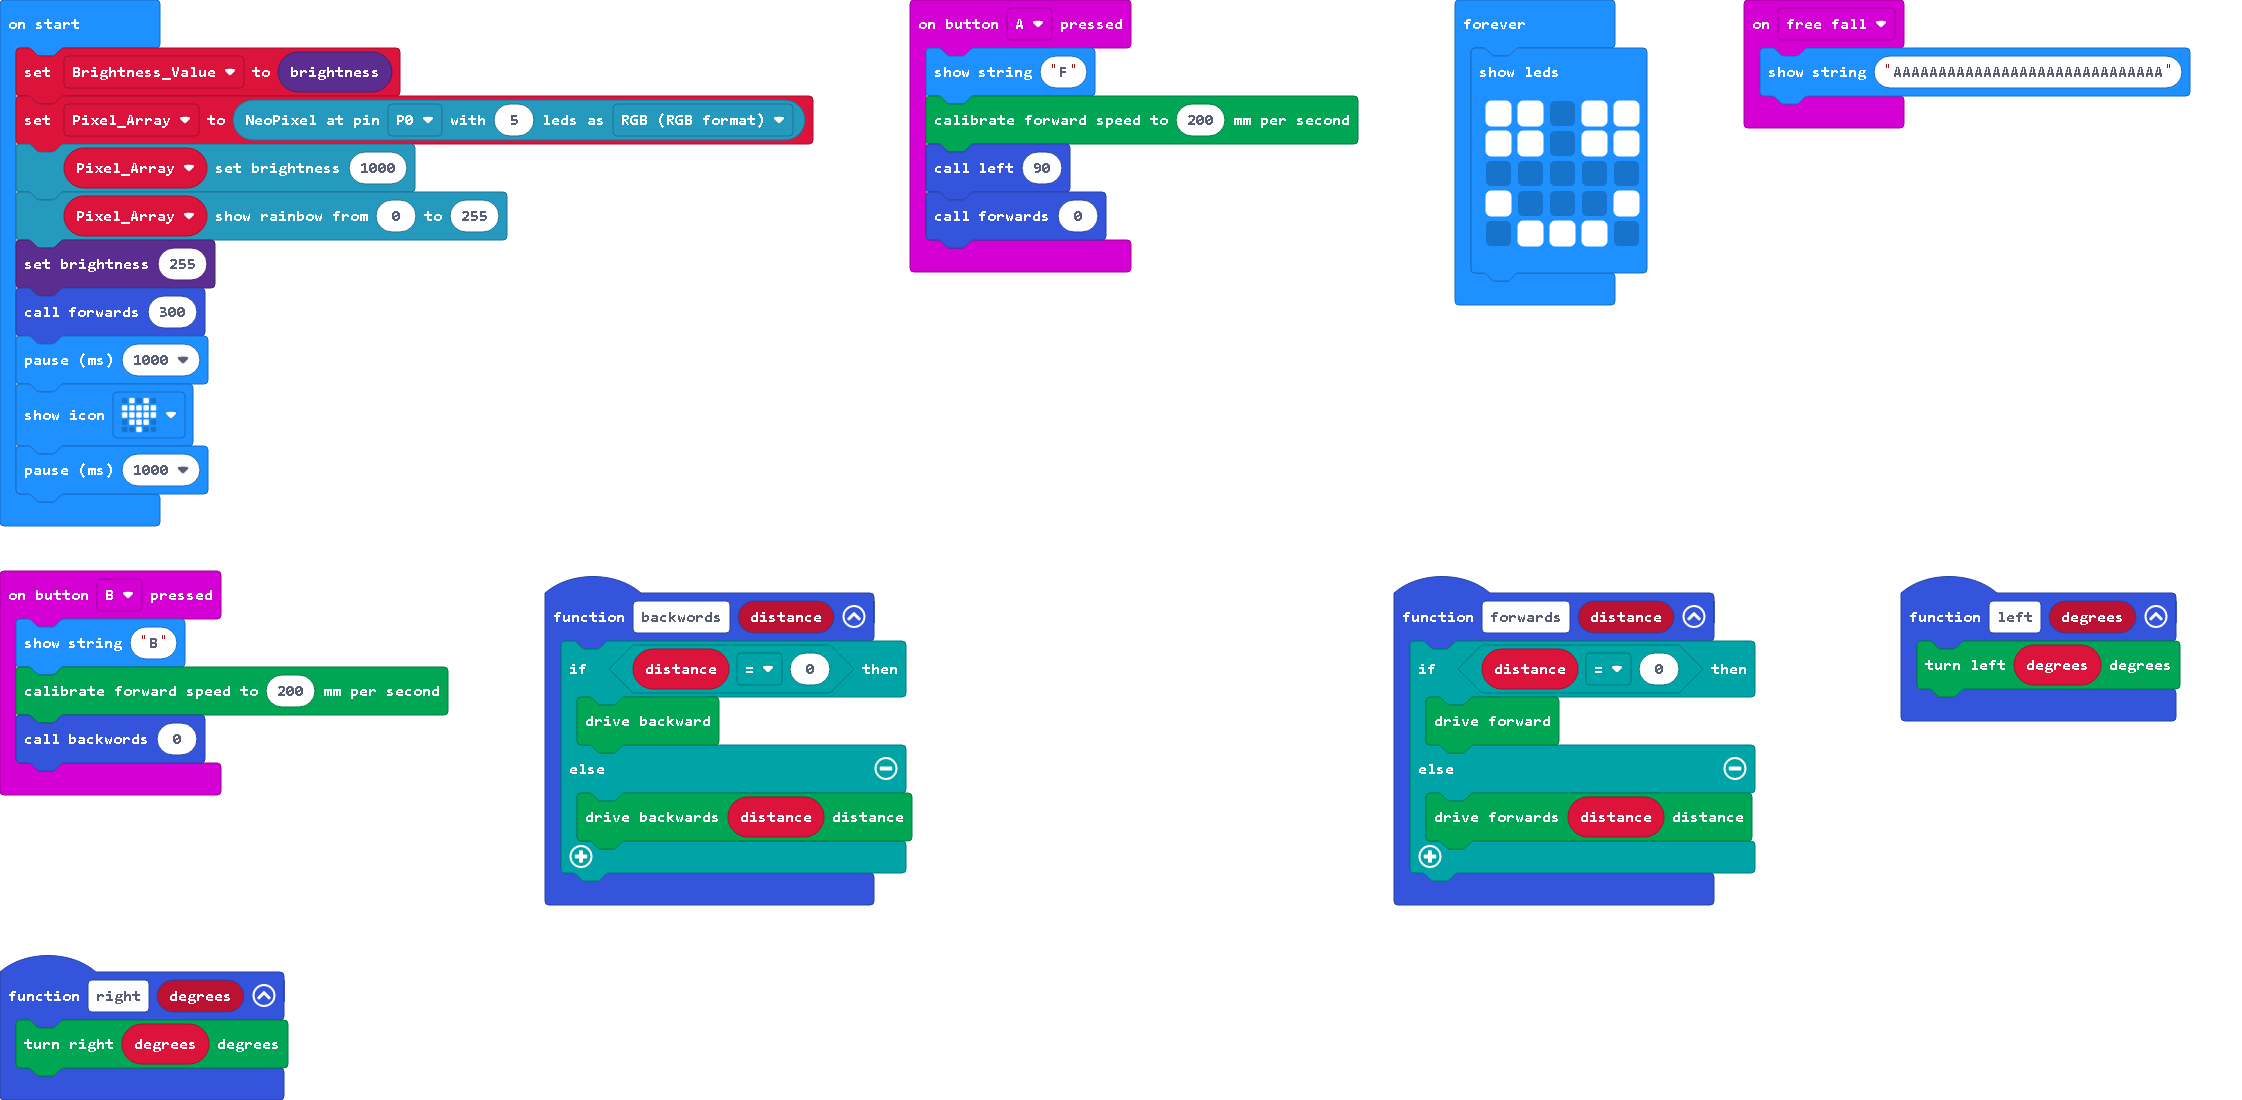
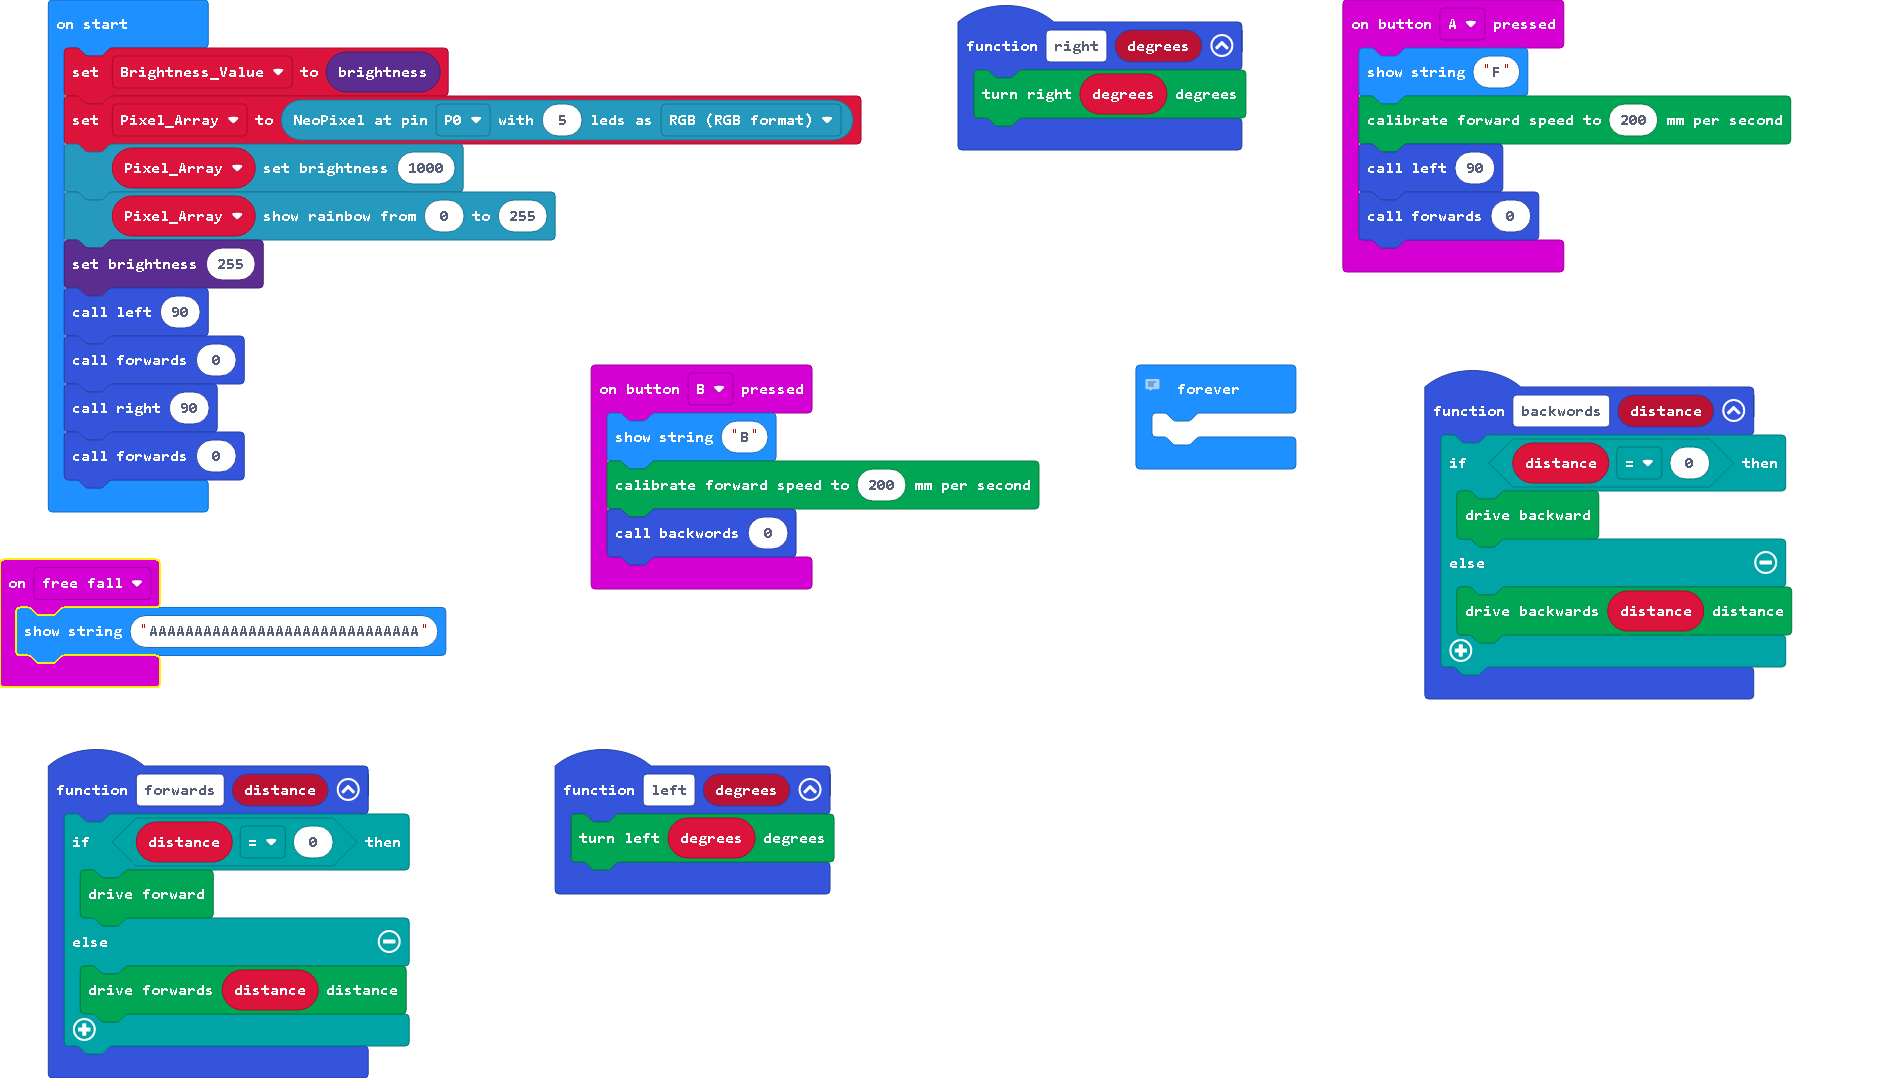
Update main.blocks, main.ts, main.py

diff --git a/main.ts b/main.ts
@@ -37,16 +37,14 @@ let Pixel_Array = neopixel.create(DigitalPin.P0, 5, NeoPixelMode.RGB_RGB)
 Pixel_Array.setBrightness(1000)
 Pixel_Array.showRainbow(0, 255)
 led.setBrightness(255)
-forwards(300)
-basic.pause(1000)
-basic.showIcon(IconNames.Heart)
-basic.pause(1000)
+left(90)
+forwards(0)
+right(90)
+forwards(0)
+// forwards(300)
+// basic.pause(1000)
+// basic.show_icon(IconNames.HEART)
+// basic.pause(1000)
 basic.forever(function () {
-    basic.showLeds(`
-        # # . # #
-        # # . # #
-        . . . . .
-        # . . . #
-        . # # # .
-        `)
+	
 })

diff --git a/main.py b/main.py
@@ -36,10 +36,10 @@ Pixel_Array = neopixel.create(DigitalPin.P0, 5, NeoPixelMode.RGB_RGB)
 Pixel_Array.set_brightness(1000)
 Pixel_Array.show_rainbow(0, 255)
 led.set_brightness(255)
-forwards(300)
-basic.pause(1000)
-basic.show_icon(IconNames.HEART)
-basic.pause(1000)
+# forwards(300)
+# basic.pause(1000)
+# basic.show_icon(IconNames.HEART)
+# basic.pause(1000)
 
 def on_forever():
     basic.show_leds("""
